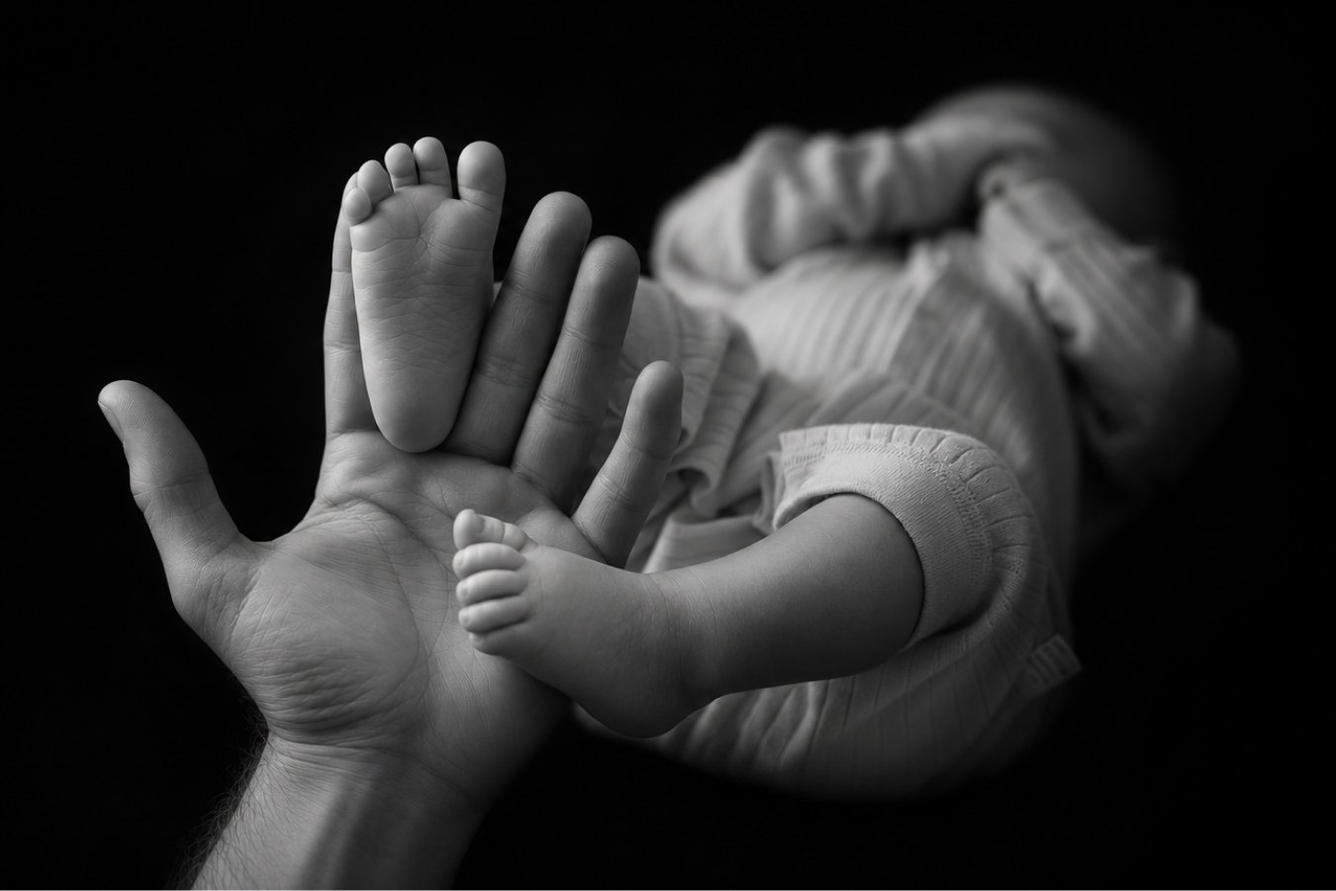
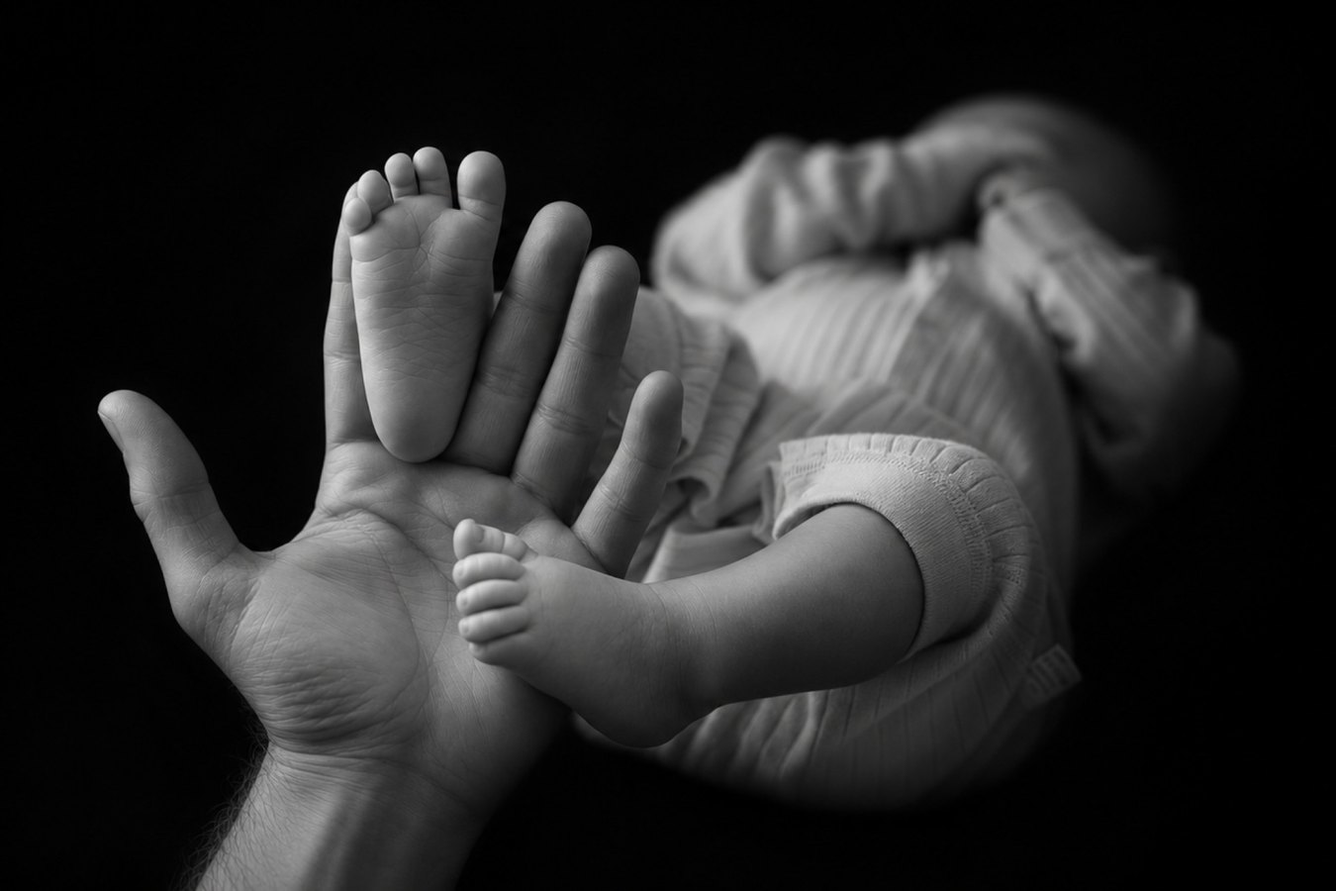
Замена фото с дефектом: семья 03

diff --git a/site/kz/index.html b/site/kz/index.html
@@ -42,7 +42,7 @@ var t=document.querySelector('meta[name="theme-color"]');if(t)t.content=p[1]}();
 <link rel="preconnect" href="https://fonts.googleapis.com">
 <link rel="preconnect" href="https://fonts.gstatic.com" crossorigin>
 <link href="https://fonts.googleapis.com/css2?family=Inter:wght@400;500;600;700;800&family=Unbounded:wght@900&display=swap" rel="stylesheet">
-<link rel="stylesheet" href="../assets/style.css?v=1794971610">
+<link rel="stylesheet" href="../assets/style.css?v=1794971854">
 </head>
 <body id="top" class="is-home">
 <header class="top">
@@ -61,9 +61,9 @@ var t=document.querySelector('meta[name="theme-color"]');if(t)t.content=p[1]}();
 
 <div class="home" id="home">
 <section class="stage">
-  <div class="splash"><picture class="tile"><source media="(max-width: 760px)" srcset="../photos/home/02.jpg?v=1794971610"><img src="../photos/home/01.jpg?v=1794971610" alt="Veronika Kim"></picture></div>
-  <h1 class="wordmark"><picture><source media="(max-width: 760px)" data-srcset="../assets/wordmark-v1.png?v=1794971610" width="678" height="1692"><img data-src="../assets/wordmark-1.png?v=1794971610" alt="Veronika Kim" width="1692" height="678"></picture><script>!function(p){var n=document.documentElement.getAttribute("data-logo")||1,s=p.firstChild,i=p.lastChild;s.srcset=s.getAttribute("data-srcset").replace("-v1.","-v"+n+".");i.src=i.getAttribute("data-src").replace("-1.","-"+n+".")}(document.currentScript.previousElementSibling)</script><noscript><img src="../assets/wordmark-1.png?v=1794971610" alt="Veronika Kim" width="1692" height="678"></noscript></h1>
-  <div class="drift"><div class="drift-item"><a class="stub"><img src="../photos/float/1.jpg?v=1794971610" width="800" height="1200" alt="Veronika Kim" decoding="async"></a></div><div class="drift-item"><a class="stub"><img src="../photos/float/2.jpg?v=1794971610" width="1200" height="900" alt="Veronika Kim" decoding="async"></a></div><div class="drift-item"><a class="stub"><img src="../photos/float/3.jpg?v=1794971610" width="857" height="1200" alt="Veronika Kim" decoding="async"></a></div><div class="drift-item"><a class="stub"><img src="../photos/float/4.jpg?v=1794971610" width="870" height="1200" alt="Veronika Kim" decoding="async"></a></div><div class="drift-item"><a class="stub"><img src="../photos/float/5.jpg?v=1794971610" width="800" height="1200" alt="Veronika Kim" decoding="async"></a></div><div class="drift-item"><a class="stub"><img src="../photos/float/6.jpg?v=1794971610" width="1150" height="1200" alt="Veronika Kim" decoding="async"></a></div><div class="drift-item"><a class="stub"><img src="../photos/float/7.jpg?v=1794971610" width="800" height="1200" alt="Veronika Kim" decoding="async"></a></div><div class="drift-item"><a class="stub"><img src="../photos/float/8.jpg?v=1794971610" width="1200" height="866" alt="Veronika Kim" decoding="async"></a></div><div class="drift-item"><a class="stub"><img src="../photos/float/9.jpg?v=1794971610" width="1200" height="800" alt="Veronika Kim" decoding="async"></a></div></div>
+  <div class="splash"><picture class="tile"><source media="(max-width: 760px)" srcset="../photos/home/02.jpg?v=1794971854"><img src="../photos/home/01.jpg?v=1794971854" alt="Veronika Kim"></picture></div>
+  <h1 class="wordmark"><picture><source media="(max-width: 760px)" data-srcset="../assets/wordmark-v1.png?v=1794971854" width="678" height="1692"><img data-src="../assets/wordmark-1.png?v=1794971854" alt="Veronika Kim" width="1692" height="678"></picture><script>!function(p){var n=document.documentElement.getAttribute("data-logo")||1,s=p.firstChild,i=p.lastChild;s.srcset=s.getAttribute("data-srcset").replace("-v1.","-v"+n+".");i.src=i.getAttribute("data-src").replace("-1.","-"+n+".")}(document.currentScript.previousElementSibling)</script><noscript><img src="../assets/wordmark-1.png?v=1794971854" alt="Veronika Kim" width="1692" height="678"></noscript></h1>
+  <div class="drift"><div class="drift-item"><a class="stub"><img src="../photos/float/1.jpg?v=1794971854" width="800" height="1200" alt="Veronika Kim" decoding="async"></a></div><div class="drift-item"><a class="stub"><img src="../photos/float/2.jpg?v=1794971854" width="1200" height="900" alt="Veronika Kim" decoding="async"></a></div><div class="drift-item"><a class="stub"><img src="../photos/float/3.jpg?v=1794971854" width="857" height="1200" alt="Veronika Kim" decoding="async"></a></div><div class="drift-item"><a class="stub"><img src="../photos/float/4.jpg?v=1794971854" width="870" height="1200" alt="Veronika Kim" decoding="async"></a></div><div class="drift-item"><a class="stub"><img src="../photos/float/5.jpg?v=1794971854" width="800" height="1200" alt="Veronika Kim" decoding="async"></a></div><div class="drift-item"><a class="stub"><img src="../photos/float/6.jpg?v=1794971854" width="1150" height="1200" alt="Veronika Kim" decoding="async"></a></div><div class="drift-item"><a class="stub"><img src="../photos/float/7.jpg?v=1794971854" width="800" height="1200" alt="Veronika Kim" decoding="async"></a></div><div class="drift-item"><a class="stub"><img src="../photos/float/8.jpg?v=1794971854" width="1200" height="866" alt="Veronika Kim" decoding="async"></a></div><div class="drift-item"><a class="stub"><img src="../photos/float/9.jpg?v=1794971854" width="1200" height="800" alt="Veronika Kim" decoding="async"></a></div></div>
 </section>
 <div class="home-content">
 <p class="statement">Маған мінсіз адамдар керек емес. <em>Маған тірі адамдар қызық.</em></p>
@@ -90,6 +90,6 @@ var t=document.querySelector('meta[name="theme-color"]');if(t)t.content=p[1]}();
   <div class="foot-bottom"><span>© 2026 Veronika Kim. Барлық құқықтар қорғалған</span><a href="#top">Жоғарыға</a></div>
 </footer>
 <div class="lb" role="dialog" aria-modal="true"><span class="c"></span><button class="x">Жабу</button><button class="p">← Артқа</button><img alt=""><button class="nx">Алға →</button></div>
-<script src="../assets/app.js?v=1794971610"></script>
+<script src="../assets/app.js?v=1794971854"></script>
 </body>
 </html>

diff --git a/site/en/index.html b/site/en/index.html
@@ -42,7 +42,7 @@ var t=document.querySelector('meta[name="theme-color"]');if(t)t.content=p[1]}();
 <link rel="preconnect" href="https://fonts.googleapis.com">
 <link rel="preconnect" href="https://fonts.gstatic.com" crossorigin>
 <link href="https://fonts.googleapis.com/css2?family=Inter:wght@400;500;600;700;800&family=Unbounded:wght@900&display=swap" rel="stylesheet">
-<link rel="stylesheet" href="../assets/style.css?v=1794971610">
+<link rel="stylesheet" href="../assets/style.css?v=1794971854">
 </head>
 <body id="top" class="is-home">
 <header class="top">
@@ -61,9 +61,9 @@ var t=document.querySelector('meta[name="theme-color"]');if(t)t.content=p[1]}();
 
 <div class="home" id="home">
 <section class="stage">
-  <div class="splash"><picture class="tile"><source media="(max-width: 760px)" srcset="../photos/home/02.jpg?v=1794971610"><img src="../photos/home/01.jpg?v=1794971610" alt="Veronika Kim"></picture></div>
-  <h1 class="wordmark"><picture><source media="(max-width: 760px)" data-srcset="../assets/wordmark-v1.png?v=1794971610" width="678" height="1692"><img data-src="../assets/wordmark-1.png?v=1794971610" alt="Veronika Kim" width="1692" height="678"></picture><script>!function(p){var n=document.documentElement.getAttribute("data-logo")||1,s=p.firstChild,i=p.lastChild;s.srcset=s.getAttribute("data-srcset").replace("-v1.","-v"+n+".");i.src=i.getAttribute("data-src").replace("-1.","-"+n+".")}(document.currentScript.previousElementSibling)</script><noscript><img src="../assets/wordmark-1.png?v=1794971610" alt="Veronika Kim" width="1692" height="678"></noscript></h1>
-  <div class="drift"><div class="drift-item"><a class="stub"><img src="../photos/float/1.jpg?v=1794971610" width="800" height="1200" alt="Veronika Kim" decoding="async"></a></div><div class="drift-item"><a class="stub"><img src="../photos/float/2.jpg?v=1794971610" width="1200" height="900" alt="Veronika Kim" decoding="async"></a></div><div class="drift-item"><a class="stub"><img src="../photos/float/3.jpg?v=1794971610" width="857" height="1200" alt="Veronika Kim" decoding="async"></a></div><div class="drift-item"><a class="stub"><img src="../photos/float/4.jpg?v=1794971610" width="870" height="1200" alt="Veronika Kim" decoding="async"></a></div><div class="drift-item"><a class="stub"><img src="../photos/float/5.jpg?v=1794971610" width="800" height="1200" alt="Veronika Kim" decoding="async"></a></div><div class="drift-item"><a class="stub"><img src="../photos/float/6.jpg?v=1794971610" width="1150" height="1200" alt="Veronika Kim" decoding="async"></a></div><div class="drift-item"><a class="stub"><img src="../photos/float/7.jpg?v=1794971610" width="800" height="1200" alt="Veronika Kim" decoding="async"></a></div><div class="drift-item"><a class="stub"><img src="../photos/float/8.jpg?v=1794971610" width="1200" height="866" alt="Veronika Kim" decoding="async"></a></div><div class="drift-item"><a class="stub"><img src="../photos/float/9.jpg?v=1794971610" width="1200" height="800" alt="Veronika Kim" decoding="async"></a></div></div>
+  <div class="splash"><picture class="tile"><source media="(max-width: 760px)" srcset="../photos/home/02.jpg?v=1794971854"><img src="../photos/home/01.jpg?v=1794971854" alt="Veronika Kim"></picture></div>
+  <h1 class="wordmark"><picture><source media="(max-width: 760px)" data-srcset="../assets/wordmark-v1.png?v=1794971854" width="678" height="1692"><img data-src="../assets/wordmark-1.png?v=1794971854" alt="Veronika Kim" width="1692" height="678"></picture><script>!function(p){var n=document.documentElement.getAttribute("data-logo")||1,s=p.firstChild,i=p.lastChild;s.srcset=s.getAttribute("data-srcset").replace("-v1.","-v"+n+".");i.src=i.getAttribute("data-src").replace("-1.","-"+n+".")}(document.currentScript.previousElementSibling)</script><noscript><img src="../assets/wordmark-1.png?v=1794971854" alt="Veronika Kim" width="1692" height="678"></noscript></h1>
+  <div class="drift"><div class="drift-item"><a class="stub"><img src="../photos/float/1.jpg?v=1794971854" width="800" height="1200" alt="Veronika Kim" decoding="async"></a></div><div class="drift-item"><a class="stub"><img src="../photos/float/2.jpg?v=1794971854" width="1200" height="900" alt="Veronika Kim" decoding="async"></a></div><div class="drift-item"><a class="stub"><img src="../photos/float/3.jpg?v=1794971854" width="857" height="1200" alt="Veronika Kim" decoding="async"></a></div><div class="drift-item"><a class="stub"><img src="../photos/float/4.jpg?v=1794971854" width="870" height="1200" alt="Veronika Kim" decoding="async"></a></div><div class="drift-item"><a class="stub"><img src="../photos/float/5.jpg?v=1794971854" width="800" height="1200" alt="Veronika Kim" decoding="async"></a></div><div class="drift-item"><a class="stub"><img src="../photos/float/6.jpg?v=1794971854" width="1150" height="1200" alt="Veronika Kim" decoding="async"></a></div><div class="drift-item"><a class="stub"><img src="../photos/float/7.jpg?v=1794971854" width="800" height="1200" alt="Veronika Kim" decoding="async"></a></div><div class="drift-item"><a class="stub"><img src="../photos/float/8.jpg?v=1794971854" width="1200" height="866" alt="Veronika Kim" decoding="async"></a></div><div class="drift-item"><a class="stub"><img src="../photos/float/9.jpg?v=1794971854" width="1200" height="800" alt="Veronika Kim" decoding="async"></a></div></div>
 </section>
 <div class="home-content">
 <p class="statement">I don't need perfect people. <em>I'm interested in real ones.</em></p>
@@ -90,6 +90,6 @@ var t=document.querySelector('meta[name="theme-color"]');if(t)t.content=p[1]}();
   <div class="foot-bottom"><span>© 2026 Veronika Kim. All rights reserved</span><a href="#top">Back to top</a></div>
 </footer>
 <div class="lb" role="dialog" aria-modal="true"><span class="c"></span><button class="x">Close</button><button class="p">← Prev</button><img alt=""><button class="nx">Next →</button></div>
-<script src="../assets/app.js?v=1794971610"></script>
+<script src="../assets/app.js?v=1794971854"></script>
 </body>
 </html>

diff --git a/site/index.html b/site/index.html
@@ -42,7 +42,7 @@ var t=document.querySelector('meta[name="theme-color"]');if(t)t.content=p[1]}();
 <link rel="preconnect" href="https://fonts.googleapis.com">
 <link rel="preconnect" href="https://fonts.gstatic.com" crossorigin>
 <link href="https://fonts.googleapis.com/css2?family=Inter:wght@400;500;600;700;800&family=Unbounded:wght@900&display=swap" rel="stylesheet">
-<link rel="stylesheet" href="assets/style.css?v=1794971610">
+<link rel="stylesheet" href="assets/style.css?v=1794971854">
 </head>
 <body id="top" class="is-home">
 <header class="top">
@@ -61,9 +61,9 @@ var t=document.querySelector('meta[name="theme-color"]');if(t)t.content=p[1]}();
 
 <div class="home" id="home">
 <section class="stage">
-  <div class="splash"><picture class="tile"><source media="(max-width: 760px)" srcset="photos/home/02.jpg?v=1794971610"><img src="photos/home/01.jpg?v=1794971610" alt="Veronika Kim"></picture></div>
-  <h1 class="wordmark"><picture><source media="(max-width: 760px)" data-srcset="assets/wordmark-v1.png?v=1794971610" width="678" height="1692"><img data-src="assets/wordmark-1.png?v=1794971610" alt="Veronika Kim" width="1692" height="678"></picture><script>!function(p){var n=document.documentElement.getAttribute("data-logo")||1,s=p.firstChild,i=p.lastChild;s.srcset=s.getAttribute("data-srcset").replace("-v1.","-v"+n+".");i.src=i.getAttribute("data-src").replace("-1.","-"+n+".")}(document.currentScript.previousElementSibling)</script><noscript><img src="assets/wordmark-1.png?v=1794971610" alt="Veronika Kim" width="1692" height="678"></noscript></h1>
-  <div class="drift"><div class="drift-item"><a class="stub"><img src="photos/float/1.jpg?v=1794971610" width="800" height="1200" alt="Veronika Kim" decoding="async"></a></div><div class="drift-item"><a class="stub"><img src="photos/float/2.jpg?v=1794971610" width="1200" height="900" alt="Veronika Kim" decoding="async"></a></div><div class="drift-item"><a class="stub"><img src="photos/float/3.jpg?v=1794971610" width="857" height="1200" alt="Veronika Kim" decoding="async"></a></div><div class="drift-item"><a class="stub"><img src="photos/float/4.jpg?v=1794971610" width="870" height="1200" alt="Veronika Kim" decoding="async"></a></div><div class="drift-item"><a class="stub"><img src="photos/float/5.jpg?v=1794971610" width="800" height="1200" alt="Veronika Kim" decoding="async"></a></div><div class="drift-item"><a class="stub"><img src="photos/float/6.jpg?v=1794971610" width="1150" height="1200" alt="Veronika Kim" decoding="async"></a></div><div class="drift-item"><a class="stub"><img src="photos/float/7.jpg?v=1794971610" width="800" height="1200" alt="Veronika Kim" decoding="async"></a></div><div class="drift-item"><a class="stub"><img src="photos/float/8.jpg?v=1794971610" width="1200" height="866" alt="Veronika Kim" decoding="async"></a></div><div class="drift-item"><a class="stub"><img src="photos/float/9.jpg?v=1794971610" width="1200" height="800" alt="Veronika Kim" decoding="async"></a></div></div>
+  <div class="splash"><picture class="tile"><source media="(max-width: 760px)" srcset="photos/home/02.jpg?v=1794971854"><img src="photos/home/01.jpg?v=1794971854" alt="Veronika Kim"></picture></div>
+  <h1 class="wordmark"><picture><source media="(max-width: 760px)" data-srcset="assets/wordmark-v1.png?v=1794971854" width="678" height="1692"><img data-src="assets/wordmark-1.png?v=1794971854" alt="Veronika Kim" width="1692" height="678"></picture><script>!function(p){var n=document.documentElement.getAttribute("data-logo")||1,s=p.firstChild,i=p.lastChild;s.srcset=s.getAttribute("data-srcset").replace("-v1.","-v"+n+".");i.src=i.getAttribute("data-src").replace("-1.","-"+n+".")}(document.currentScript.previousElementSibling)</script><noscript><img src="assets/wordmark-1.png?v=1794971854" alt="Veronika Kim" width="1692" height="678"></noscript></h1>
+  <div class="drift"><div class="drift-item"><a class="stub"><img src="photos/float/1.jpg?v=1794971854" width="800" height="1200" alt="Veronika Kim" decoding="async"></a></div><div class="drift-item"><a class="stub"><img src="photos/float/2.jpg?v=1794971854" width="1200" height="900" alt="Veronika Kim" decoding="async"></a></div><div class="drift-item"><a class="stub"><img src="photos/float/3.jpg?v=1794971854" width="857" height="1200" alt="Veronika Kim" decoding="async"></a></div><div class="drift-item"><a class="stub"><img src="photos/float/4.jpg?v=1794971854" width="870" height="1200" alt="Veronika Kim" decoding="async"></a></div><div class="drift-item"><a class="stub"><img src="photos/float/5.jpg?v=1794971854" width="800" height="1200" alt="Veronika Kim" decoding="async"></a></div><div class="drift-item"><a class="stub"><img src="photos/float/6.jpg?v=1794971854" width="1150" height="1200" alt="Veronika Kim" decoding="async"></a></div><div class="drift-item"><a class="stub"><img src="photos/float/7.jpg?v=1794971854" width="800" height="1200" alt="Veronika Kim" decoding="async"></a></div><div class="drift-item"><a class="stub"><img src="photos/float/8.jpg?v=1794971854" width="1200" height="866" alt="Veronika Kim" decoding="async"></a></div><div class="drift-item"><a class="stub"><img src="photos/float/9.jpg?v=1794971854" width="1200" height="800" alt="Veronika Kim" decoding="async"></a></div></div>
 </section>
 <div class="home-content">
 <p class="statement">Мне не нужны идеальные люди. <em>Мне интересны живые.</em></p>
@@ -90,6 +90,6 @@ var t=document.querySelector('meta[name="theme-color"]');if(t)t.content=p[1]}();
   <div class="foot-bottom"><span>© 2026 Veronika Kim. Все права защищены</span><a href="#top">Наверх</a></div>
 </footer>
 <div class="lb" role="dialog" aria-modal="true"><span class="c"></span><button class="x">Закрыть</button><button class="p">← Назад</button><img alt=""><button class="nx">Вперёд →</button></div>
-<script src="assets/app.js?v=1794971610"></script>
+<script src="assets/app.js?v=1794971854"></script>
 </body>
 </html>

diff --git a/site/kz/art/editorial/index.html b/site/kz/art/editorial/index.html
@@ -42,7 +42,7 @@ var t=document.querySelector('meta[name="theme-color"]');if(t)t.content=p[1]}();
 <link rel="preconnect" href="https://fonts.googleapis.com">
 <link rel="preconnect" href="https://fonts.gstatic.com" crossorigin>
 <link href="https://fonts.googleapis.com/css2?family=Inter:wght@400;500;600;700;800&family=Unbounded:wght@900&display=swap" rel="stylesheet">
-<link rel="stylesheet" href="../../../assets/style.css?v=1794971610">
+<link rel="stylesheet" href="../../../assets/style.css?v=1794971854">
 </head>
 <body id="top">
 <header class="top">
@@ -70,6 +70,6 @@ var t=document.querySelector('meta[name="theme-color"]');if(t)t.content=p[1]}();
   <div class="foot-bottom"><span>© 2026 Veronika Kim. Барлық құқықтар қорғалған</span><a href="#top">Жоғарыға</a></div>
 </footer>
 <div class="lb" role="dialog" aria-modal="true"><span class="c"></span><button class="x">Жабу</button><button class="p">← Артқа</button><img alt=""><button class="nx">Алға →</button></div>
-<script src="../../../assets/app.js?v=1794971610"></script>
+<script src="../../../assets/app.js?v=1794971854"></script>
 </body>
 </html>

diff --git a/site/kz/art/film-darkroom/index.html b/site/kz/art/film-darkroom/index.html
@@ -42,7 +42,7 @@ var t=document.querySelector('meta[name="theme-color"]');if(t)t.content=p[1]}();
 <link rel="preconnect" href="https://fonts.googleapis.com">
 <link rel="preconnect" href="https://fonts.gstatic.com" crossorigin>
 <link href="https://fonts.googleapis.com/css2?family=Inter:wght@400;500;600;700;800&family=Unbounded:wght@900&display=swap" rel="stylesheet">
-<link rel="stylesheet" href="../../../assets/style.css?v=1794971610">
+<link rel="stylesheet" href="../../../assets/style.css?v=1794971854">
 </head>
 <body id="top">
 <header class="top">
@@ -70,6 +70,6 @@ var t=document.querySelector('meta[name="theme-color"]');if(t)t.content=p[1]}();
   <div class="foot-bottom"><span>© 2026 Veronika Kim. Барлық құқықтар қорғалған</span><a href="#top">Жоғарыға</a></div>
 </footer>
 <div class="lb" role="dialog" aria-modal="true"><span class="c"></span><button class="x">Жабу</button><button class="p">← Артқа</button><img alt=""><button class="nx">Алға →</button></div>
-<script src="../../../assets/app.js?v=1794971610"></script>
+<script src="../../../assets/app.js?v=1794971854"></script>
 </body>
 </html>

diff --git a/site/kz/art/thirst-for-life/index.html b/site/kz/art/thirst-for-life/index.html
@@ -42,7 +42,7 @@ var t=document.querySelector('meta[name="theme-color"]');if(t)t.content=p[1]}();
 <link rel="preconnect" href="https://fonts.googleapis.com">
 <link rel="preconnect" href="https://fonts.gstatic.com" crossorigin>
 <link href="https://fonts.googleapis.com/css2?family=Inter:wght@400;500;600;700;800&family=Unbounded:wght@900&display=swap" rel="stylesheet">
-<link rel="stylesheet" href="../../../assets/style.css?v=1794971610">
+<link rel="stylesheet" href="../../../assets/style.css?v=1794971854">
 </head>
 <body id="top">
 <header class="top">
@@ -70,6 +70,6 @@ var t=document.querySelector('meta[name="theme-color"]');if(t)t.content=p[1]}();
   <div class="foot-bottom"><span>© 2026 Veronika Kim. Барлық құқықтар қорғалған</span><a href="#top">Жоғарыға</a></div>
 </footer>
 <div class="lb" role="dialog" aria-modal="true"><span class="c"></span><button class="x">Жабу</button><button class="p">← Артқа</button><img alt=""><button class="nx">Алға →</button></div>
-<script src="../../../assets/app.js?v=1794971610"></script>
+<script src="../../../assets/app.js?v=1794971854"></script>
 </body>
 </html>

diff --git a/site/kz/art/travel/index.html b/site/kz/art/travel/index.html
@@ -42,7 +42,7 @@ var t=document.querySelector('meta[name="theme-color"]');if(t)t.content=p[1]}();
 <link rel="preconnect" href="https://fonts.googleapis.com">
 <link rel="preconnect" href="https://fonts.gstatic.com" crossorigin>
 <link href="https://fonts.googleapis.com/css2?family=Inter:wght@400;500;600;700;800&family=Unbounded:wght@900&display=swap" rel="stylesheet">
-<link rel="stylesheet" href="../../../assets/style.css?v=1794971610">
+<link rel="stylesheet" href="../../../assets/style.css?v=1794971854">
 </head>
 <body id="top">
 <header class="top">
@@ -70,6 +70,6 @@ var t=document.querySelector('meta[name="theme-color"]');if(t)t.content=p[1]}();
   <div class="foot-bottom"><span>© 2026 Veronika Kim. Барлық құқықтар қорғалған</span><a href="#top">Жоғарыға</a></div>
 </footer>
 <div class="lb" role="dialog" aria-modal="true"><span class="c"></span><button class="x">Жабу</button><button class="p">← Артқа</button><img alt=""><button class="nx">Алға →</button></div>
-<script src="../../../assets/app.js?v=1794971610"></script>
+<script src="../../../assets/app.js?v=1794971854"></script>
 </body>
 </html>

diff --git a/site/kz/book/family/index.html b/site/kz/book/family/index.html
@@ -42,7 +42,7 @@ var t=document.querySelector('meta[name="theme-color"]');if(t)t.content=p[1]}();
 <link rel="preconnect" href="https://fonts.googleapis.com">
 <link rel="preconnect" href="https://fonts.gstatic.com" crossorigin>
 <link href="https://fonts.googleapis.com/css2?family=Inter:wght@400;500;600;700;800&family=Unbounded:wght@900&display=swap" rel="stylesheet">
-<link rel="stylesheet" href="../../../assets/style.css?v=1794971610">
+<link rel="stylesheet" href="../../../assets/style.css?v=1794971854">
 </head>
 <body id="top">
 <header class="top">
@@ -70,6 +70,6 @@ var t=document.querySelector('meta[name="theme-color"]');if(t)t.content=p[1]}();
   <div class="foot-bottom"><span>© 2026 Veronika Kim. Барлық құқықтар қорғалған</span><a href="#top">Жоғарыға</a></div>
 </footer>
 <div class="lb" role="dialog" aria-modal="true"><span class="c"></span><button class="x">Жабу</button><button class="p">← Артқа</button><img alt=""><button class="nx">Алға →</button></div>
-<script src="../../../assets/app.js?v=1794971610"></script>
+<script src="../../../assets/app.js?v=1794971854"></script>
 </body>
 </html>

diff --git a/site/kz/book/kids/index.html b/site/kz/book/kids/index.html
@@ -42,7 +42,7 @@ var t=document.querySelector('meta[name="theme-color"]');if(t)t.content=p[1]}();
 <link rel="preconnect" href="https://fonts.googleapis.com">
 <link rel="preconnect" href="https://fonts.gstatic.com" crossorigin>
 <link href="https://fonts.googleapis.com/css2?family=Inter:wght@400;500;600;700;800&family=Unbounded:wght@900&display=swap" rel="stylesheet">
-<link rel="stylesheet" href="../../../assets/style.css?v=1794971610">
+<link rel="stylesheet" href="../../../assets/style.css?v=1794971854">
 </head>
 <body id="top">
 <header class="top">
@@ -70,6 +70,6 @@ var t=document.querySelector('meta[name="theme-color"]');if(t)t.content=p[1]}();
   <div class="foot-bottom"><span>© 2026 Veronika Kim. Барлық құқықтар қорғалған</span><a href="#top">Жоғарыға</a></div>
 </footer>
 <div class="lb" role="dialog" aria-modal="true"><span class="c"></span><button class="x">Жабу</button><button class="p">← Артқа</button><img alt=""><button class="nx">Алға →</button></div>
-<script src="../../../assets/app.js?v=1794971610"></script>
+<script src="../../../assets/app.js?v=1794971854"></script>
 </body>
 </html>

diff --git a/site/kz/book/love-story/index.html b/site/kz/book/love-story/index.html
@@ -42,7 +42,7 @@ var t=document.querySelector('meta[name="theme-color"]');if(t)t.content=p[1]}();
 <link rel="preconnect" href="https://fonts.googleapis.com">
 <link rel="preconnect" href="https://fonts.gstatic.com" crossorigin>
 <link href="https://fonts.googleapis.com/css2?family=Inter:wght@400;500;600;700;800&family=Unbounded:wght@900&display=swap" rel="stylesheet">
-<link rel="stylesheet" href="../../../assets/style.css?v=1794971610">
+<link rel="stylesheet" href="../../../assets/style.css?v=1794971854">
 </head>
 <body id="top">
 <header class="top">
@@ -70,6 +70,6 @@ var t=document.querySelector('meta[name="theme-color"]');if(t)t.content=p[1]}();
   <div class="foot-bottom"><span>© 2026 Veronika Kim. Барлық құқықтар қорғалған</span><a href="#top">Жоғарыға</a></div>
 </footer>
 <div class="lb" role="dialog" aria-modal="true"><span class="c"></span><button class="x">Жабу</button><button class="p">← Артқа</button><img alt=""><button class="nx">Алға →</button></div>
-<script src="../../../assets/app.js?v=1794971610"></script>
+<script src="../../../assets/app.js?v=1794971854"></script>
 </body>
 </html>

diff --git a/site/kz/book/mountains/index.html b/site/kz/book/mountains/index.html
@@ -42,7 +42,7 @@ var t=document.querySelector('meta[name="theme-color"]');if(t)t.content=p[1]}();
 <link rel="preconnect" href="https://fonts.googleapis.com">
 <link rel="preconnect" href="https://fonts.gstatic.com" crossorigin>
 <link href="https://fonts.googleapis.com/css2?family=Inter:wght@400;500;600;700;800&family=Unbounded:wght@900&display=swap" rel="stylesheet">
-<link rel="stylesheet" href="../../../assets/style.css?v=1794971610">
+<link rel="stylesheet" href="../../../assets/style.css?v=1794971854">
 </head>
 <body id="top">
 <header class="top">
@@ -70,6 +70,6 @@ var t=document.querySelector('meta[name="theme-color"]');if(t)t.content=p[1]}();
   <div class="foot-bottom"><span>© 2026 Veronika Kim. Барлық құқықтар қорғалған</span><a href="#top">Жоғарыға</a></div>
 </footer>
 <div class="lb" role="dialog" aria-modal="true"><span class="c"></span><button class="x">Жабу</button><button class="p">← Артқа</button><img alt=""><button class="nx">Алға →</button></div>
-<script src="../../../assets/app.js?v=1794971610"></script>
+<script src="../../../assets/app.js?v=1794971854"></script>
 </body>
 </html>

diff --git a/site/kz/book/portrait/index.html b/site/kz/book/portrait/index.html
@@ -42,7 +42,7 @@ var t=document.querySelector('meta[name="theme-color"]');if(t)t.content=p[1]}();
 <link rel="preconnect" href="https://fonts.googleapis.com">
 <link rel="preconnect" href="https://fonts.gstatic.com" crossorigin>
 <link href="https://fonts.googleapis.com/css2?family=Inter:wght@400;500;600;700;800&family=Unbounded:wght@900&display=swap" rel="stylesheet">
-<link rel="stylesheet" href="../../../assets/style.css?v=1794971610">
+<link rel="stylesheet" href="../../../assets/style.css?v=1794971854">
 </head>
 <body id="top">
 <header class="top">
@@ -70,6 +70,6 @@ var t=document.querySelector('meta[name="theme-color"]');if(t)t.content=p[1]}();
   <div class="foot-bottom"><span>© 2026 Veronika Kim. Барлық құқықтар қорғалған</span><a href="#top">Жоғарыға</a></div>
 </footer>
 <div class="lb" role="dialog" aria-modal="true"><span class="c"></span><button class="x">Жабу</button><button class="p">← Артқа</button><img alt=""><button class="nx">Алға →</button></div>
-<script src="../../../assets/app.js?v=1794971610"></script>
+<script src="../../../assets/app.js?v=1794971854"></script>
 </body>
 </html>
